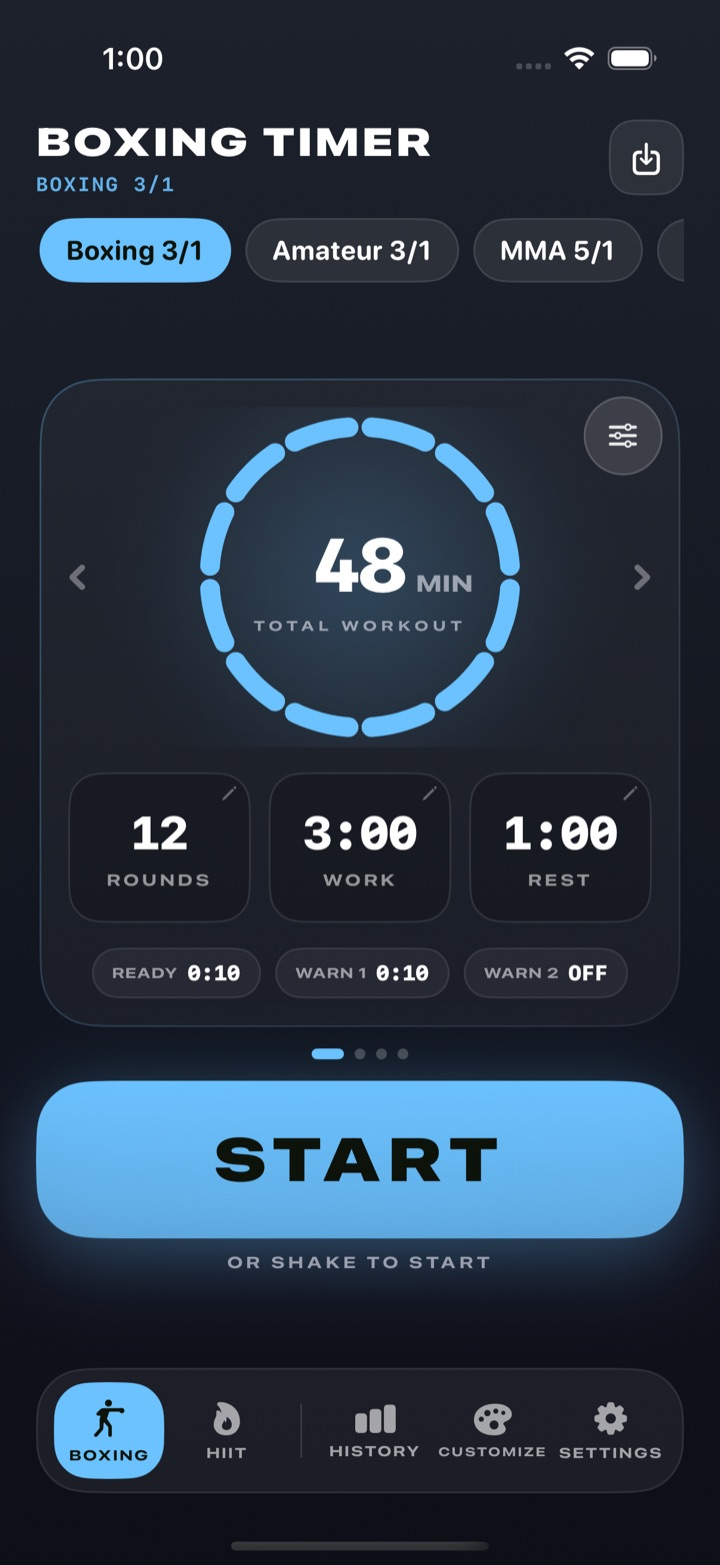
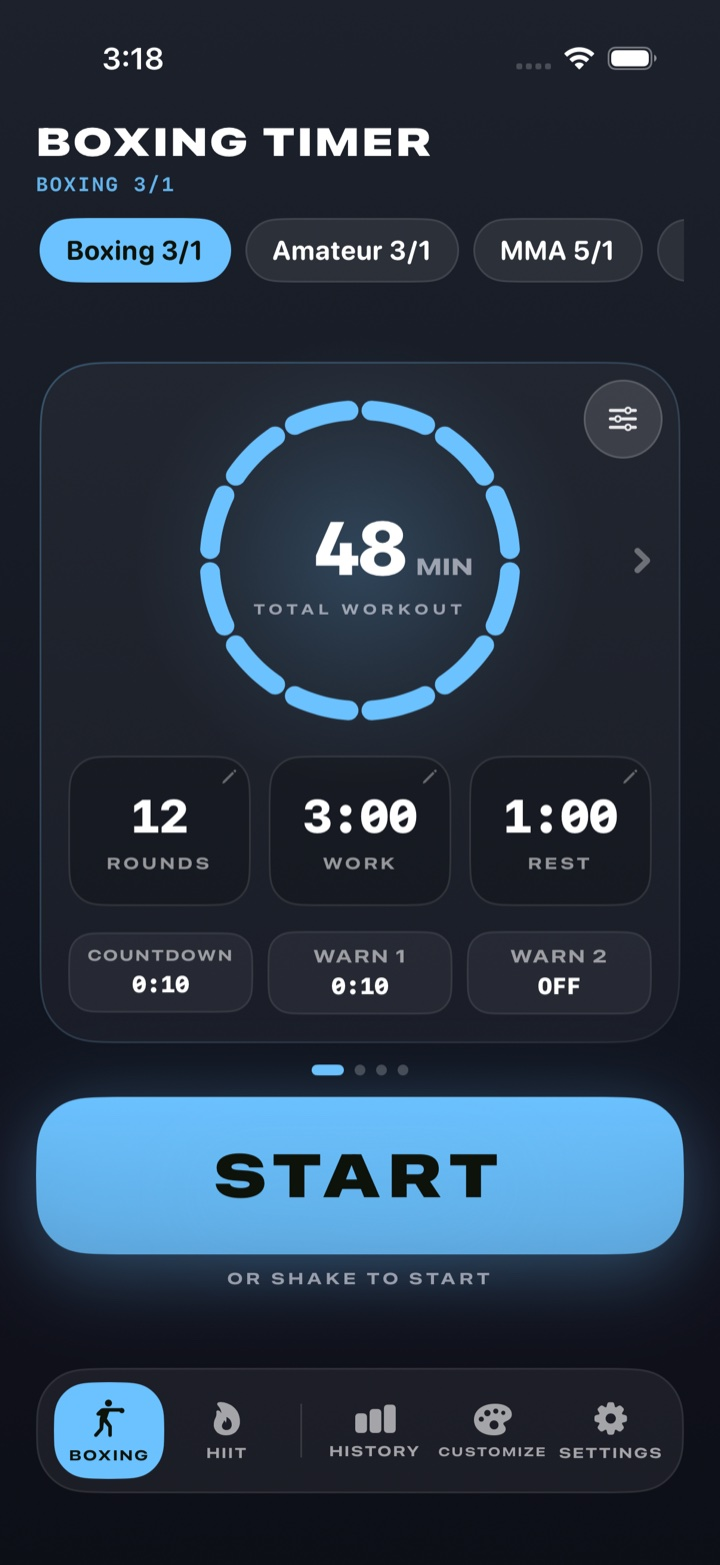
Link the App Store listing and refresh screenshots for 1.0.1
The badge now links to the live listing instead of showing a coming-soon
tag, and the seven app screenshots are regenerated from the current
build: countdown pills, the sliding preset card, and the renamed
customize sound labels.

diff --git a/index.html b/index.html
@@ -23,9 +23,9 @@
     box-shadow: 0 40px 80px rgba(0,0,0,0.55), 0 0 120px rgba(184,245,77,0.07);
   }
   .screen-img { display: block; width: 100%; height: auto; border-radius: 36px; }
-  .appstore-badge { position: relative; display: inline-flex; align-items: center; }
+  .appstore-badge { position: relative; display: inline-flex; align-items: center; transition: opacity 0.15s ease; }
+  .appstore-badge:hover { opacity: 0.85; }
   .appstore-badge .badge-svg { height: 52px; width: auto; display: block; }
-  .appstore-badge .soon-tag { position: absolute; top: -9px; right: -12px; background: var(--accent); color: var(--accent-ink); font-size: 10px; font-weight: 800; letter-spacing: 0.08em; padding: 2px 8px; border-radius: 999px; }
   .eyebrow-badge {
     display: inline-flex; align-items: center; gap: 8px;
     padding: 7px 15px 7px 11px; border-radius: 999px; margin-bottom: 22px;
@@ -108,15 +108,14 @@
       <h1>The round timer that just works - without needing an account, or your personal data.</h1>
       <p class="lede">No sign-up, no data collected. Bells fire on time with the screen locked. Your music ducks for the bell and comes right back. The display reads from across the gym. That's the whole idea.</p>
       <div class="hero-cta">
-        <span class="appstore-badge">
-          <svg class="badge-svg" viewBox="0 0 120 40" role="img" aria-label="Download on the App Store - coming soon">
+        <a class="appstore-badge" href="https://apps.apple.com/app/boxing-timer-round-timer/id6817088693">
+          <svg class="badge-svg" viewBox="0 0 120 40" role="img" aria-label="Download on the App Store">
             <rect x="0.5" y="0.5" width="119" height="39" rx="7" fill="#000" stroke="#a6a6a6"/>
             <path fill="#fff" transform="translate(10,8.2) scale(0.046)" d="M318.7 268.7c-.2-36.7 16.4-64.4 50-84.8-18.8-26.9-47.2-41.7-84.7-44.6-35.5-2.9-74.3 20.7-88.5 20.7-15 0-49.4-19.7-76.4-19.7C63.3 141.2 4 184.8 4 273.5q0 39.3 14.4 81.2c12.8 36.7 59 126.7 107.2 125.2 25.2-.6 43-17.9 75.8-17.9 31.8 0 48.3 17.9 76.4 17.9 48.6-.7 90.4-82.5 102.6-119.3-65.2-30.7-61.7-90-61.7-91.9zm-56.6-164.2c27.3-32.4 24.8-61.9 24-72.5-24.1 1.4-52 16.4-67.9 34.9-17.5 19.8-27.8 44.3-25.6 71.9 26.1 2 49.9-11.4 69.5-34.3z"/>
             <text x="33" y="16" fill="#fff" font-size="8.5" font-family="-apple-system, BlinkMacSystemFont, 'Segoe UI', Roboto, sans-serif">Download on the</text>
             <text x="33" y="31" fill="#fff" font-size="15" font-weight="600" font-family="-apple-system, BlinkMacSystemFont, 'Segoe UI', Roboto, sans-serif">App Store</text>
           </svg>
-          <span class="soon-tag">COMING SOON</span>
-        </span>
+        </a>
       </div>
       <p class="hero-note">Boxing / Muay Thai / MMA / HIIT - free, no account, iPhone &amp; iPad, iOS 17 or later.</p>
     </div>
@@ -184,7 +183,7 @@
         <figcaption>Not just boxing: Tabata, EMOM, and your own intervals.</figcaption>
       </figure>
       <figure>
-        <img src="/assets/screenshots/customize.jpg" alt="Customize screen for editing presets">
+        <img src="/assets/screenshots/customize.jpg" alt="Customize screen with accent colors and sound choices for every cue">
         <figcaption>Every preset editable down to the second.</figcaption>
       </figure>
       <figure>
